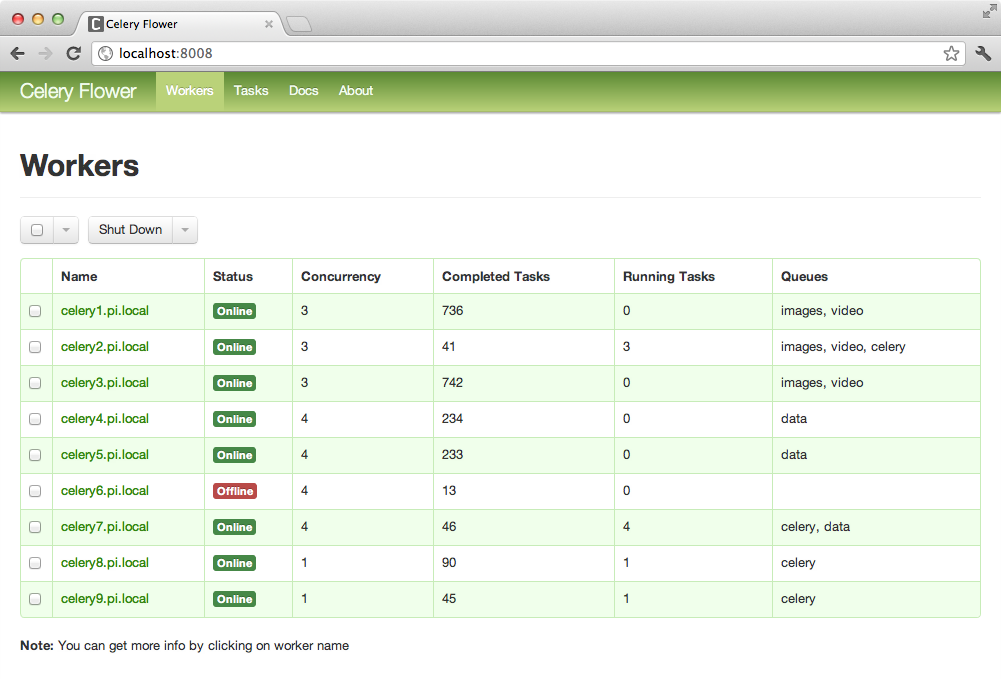
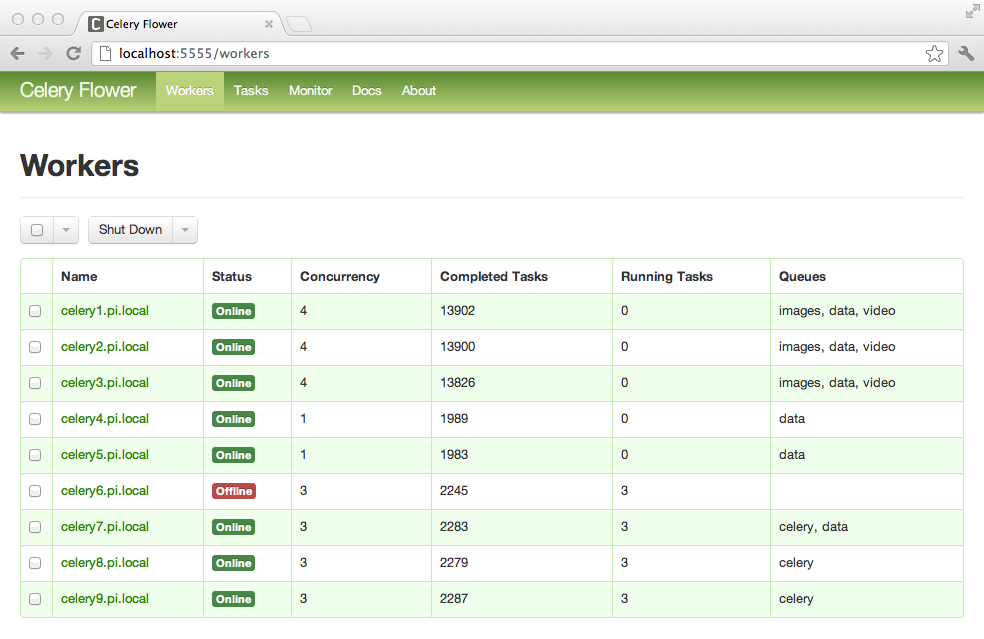
Updates flower section in monitoring guide

Changed region(s): [[0.0, 0.3271, 0.9756, 0.9515], [0.0, 0.0, 1.0, 0.1784], [0.0, 0.2081, 0.1524, 0.2973]]

diff --git a/docs/userguide/monitoring.rst b/docs/userguide/monitoring.rst
@@ -179,17 +179,30 @@ Celery Flower is a web based, real-time monitor and administration tool.
 Features
 ~~~~~~~~
 
-- Workers monitoring and management
-- Configuration viewer
-- Worker pool control
-- Broker options viewer
-- Queues management
-- Tasks execution statistics
-- Task viewer
+- Shutdown or restart workers
+- View workers status (completed, running tasks, etc.)
+- View worker pool options (timeouts, processes, etc.)
+- Control worker pool size
+- View message broker options
+- View active queues, add or cancel queues
+- View processed task stats by type
+- View currently running tasks
+- View scheduled tasks
+- View reserved and revoked tasks
+- Apply time and rate limits
+- View all active configuration options
+- View all tasks (by type, by worker, etc.)
+- View all task options (arguments, start time, runtime, etc.)
+- Revoke or terminate tasks
+- View real-time execution graphs
 
-**Screenshot**
+**Screenshots**
 
 .. figure:: ../images/dashboard.png
+   :width: 700px
+
+.. figure:: ../images/monitor.png
+   :width: 700px
 
 More screenshots_:
 
@@ -225,6 +238,7 @@ This can also be used if you're not using Celery with a Django project.
 *Screenshot*
 
 .. figure:: ../images/djangoceleryadmin2.jpg
+   :width: 700px
 
 .. _`django-celery`: http://pypi.python.org/pypi/django-celery
 
